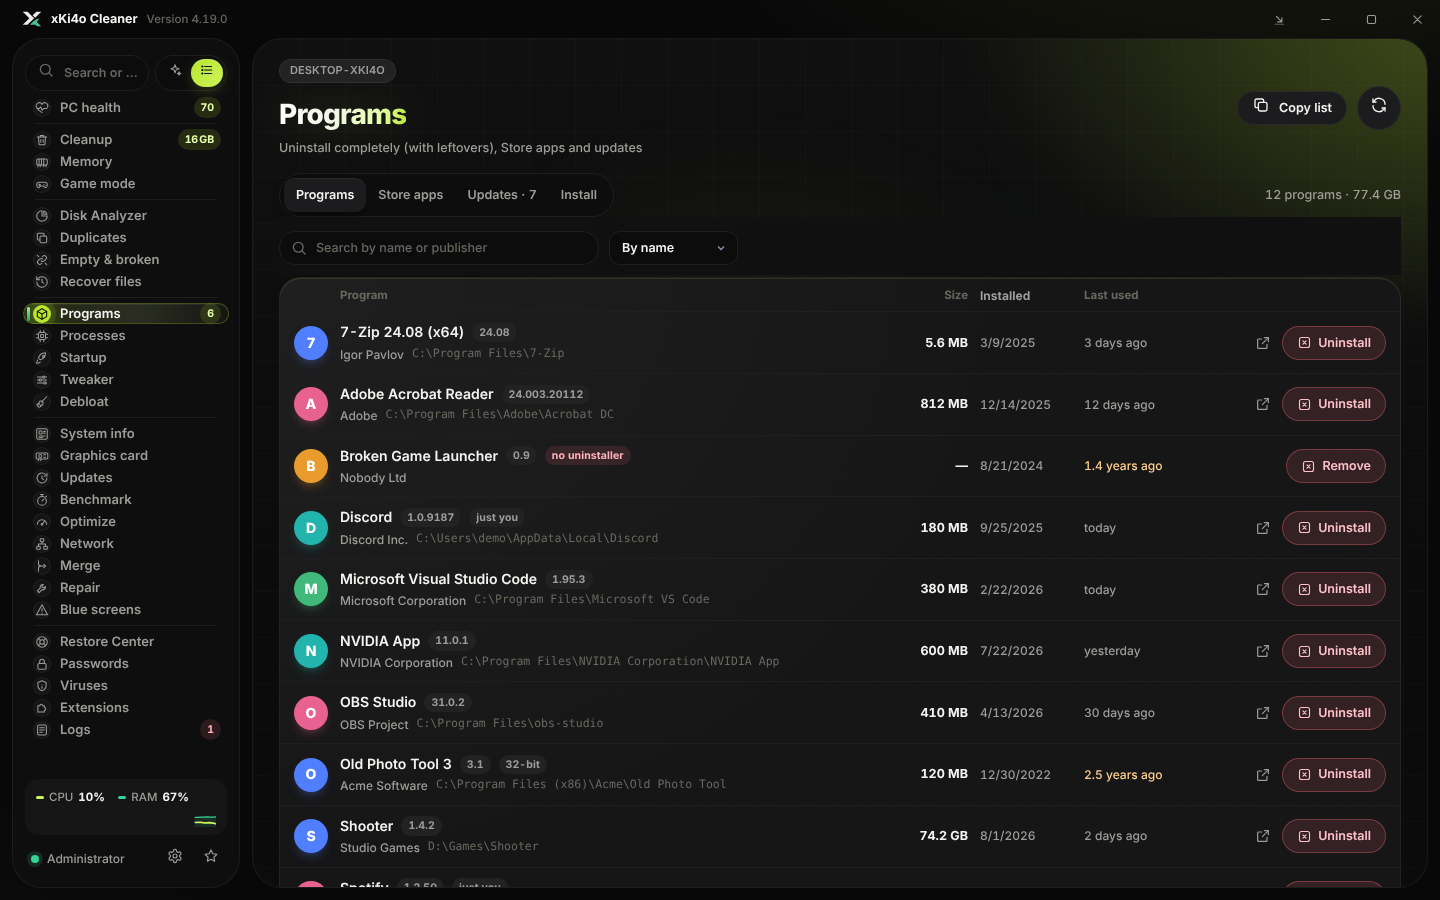
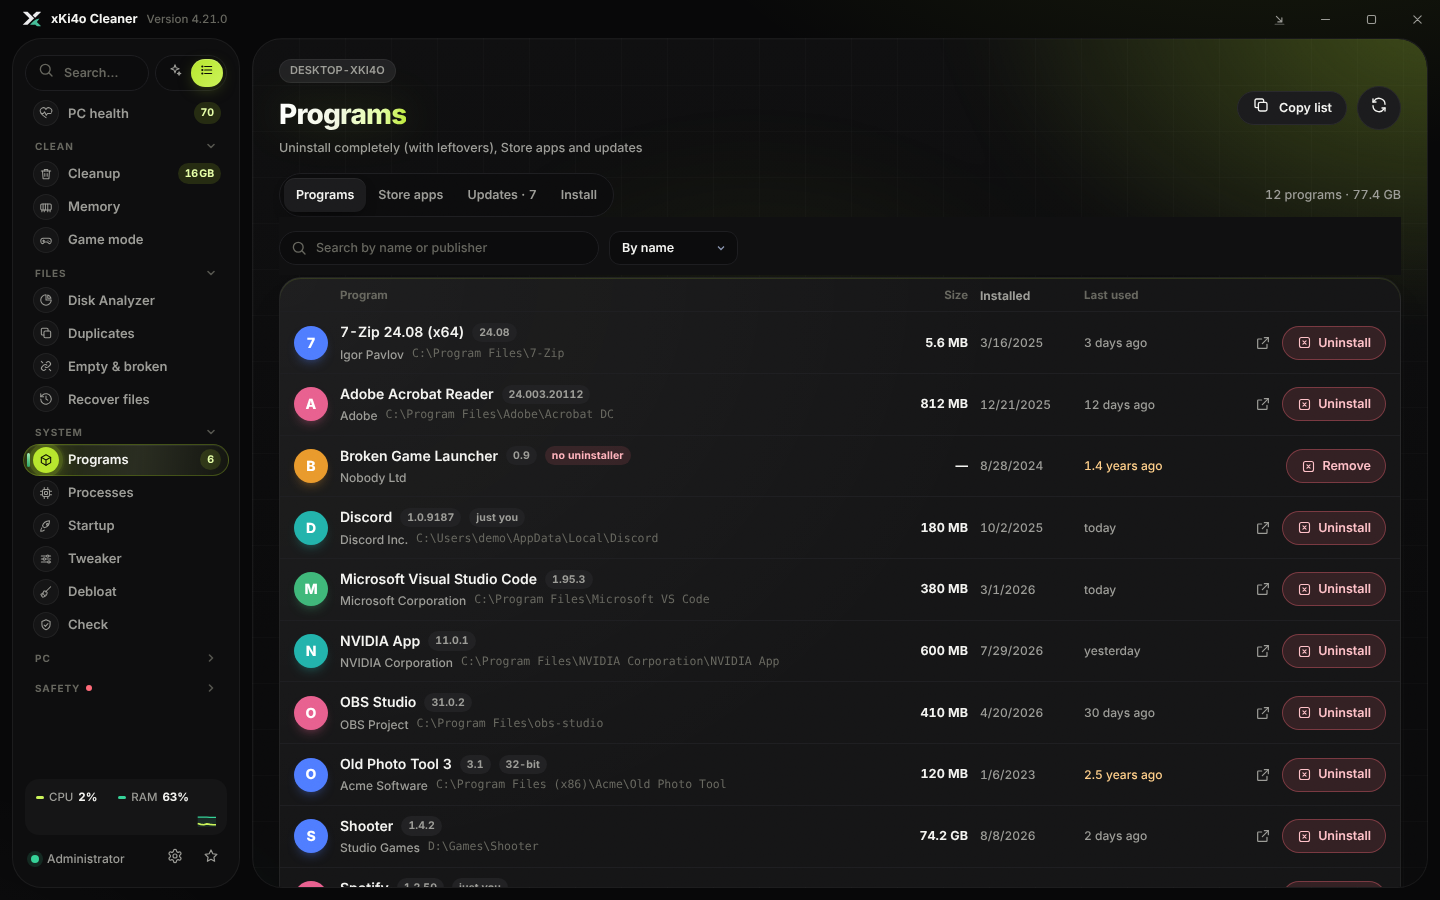
README: the Check page, new counts, new screenshots
Claude-Session: https://claude.ai/code/session_01KRJjKZZz8VxBCLNMfzXSPE

diff --git a/README.md b/README.md
@@ -6,7 +6,7 @@
 
 **The all-in-one Windows 10 / 11 cleaner, optimizer and tweaker — one portable exe, no telemetry, in English and Bulgarian.**
 
-Clean junk safely, apply 90 reversible tweaks, boost games, update Windows and drivers, check your disks, GPU and network — and undo anything in one click.
+Clean junk safely, apply 100 reversible tweaks, check that nothing broke, boost games, update Windows and drivers, check your disks, GPU and network — and undo anything in one click.
 
 [![Release](https://img.shields.io/github/v/release/Ki4o112/xKi4o-Cleaner?label=version&color=2a9dff)](../../releases/latest)
 [![Downloads](https://img.shields.io/github/downloads/Ki4o112/xKi4o-Cleaner/total?color=3ee8b0)](../../releases)
@@ -36,9 +36,10 @@ Needs Windows 10 or 11 (64-bit) and the WebView2 Runtime, which Windows 11 alrea
 | **PC health** | A live dashboard — processor, graphics card (temperature and video memory on NVIDIA), memory, system drive and network — with one score, what lowers it, and one button for what is recommended |
 | **Cleanup** | Caches and temporary files of Windows, browsers, games and apps — the size of each before you clean |
 | **Programs** | Uninstall with a scan for leftovers (like Revo), remove Store apps, update programs with winget, and install the programs you pick in one go (like Ninite) |
-| **Debloat** | Everything [Win11Debloat](https://github.com/Raphire/Win11Debloat) by Raphire does, built in: 97 changes (telemetry, ads, Bing and Copilot, Recall, widgets, the taskbar, Start, File Explorer, Windows Update…) and 162 Store and maker apps to remove, with its recommended choice, presets and taking back |
+| **Debloat** | Everything [Win11Debloat](https://github.com/Raphire/Win11Debloat) by Raphire does, built in: 97 changes plus 12 of the app's own (telemetry, ads, Bing and Copilot, Recall, widgets, the taskbar, Start, File Explorer, Windows Update…) and 162 Store and maker apps to remove, with its recommended choice, presets and taking back |
+| **Check** | Are the tweaks and Debloat working? What Windows changed back, the services Windows needs, crashes, freezes and blue screens that began after the changes (with the likely change and Undo), protection, updates, the internet — checked by itself once a day |
 | **Modes** | Balanced, Games or Saver in one click on PC health — the power plan, Windows' background work and game mode together |
-| **Tweaker** | About 90 Windows tweaks and one-click presets (Essential, Gaming, Privacy, Ultimate); switching one off brings back exactly what you had |
+| **Tweaker** | About 100 Windows tweaks and one-click presets (Essential, Gaming, Privacy, Ultimate); switching one off brings back exactly what you had |
 | **Memory and game mode** | Free RAM; close the programs you choose while you play and start them again after — by hand or by itself when any game starts, with memory freed as the game starts and after it closes; a frame counter (FPS, 1% low, frame time) with a small box above the game, through Intel's [PresentMon](https://github.com/GameTechDev/PresentMon) — downloaded on request, nothing is injected into the game |
 | **Disks** | Disk Analyzer (with "What can I delete?"), disk health (S.M.A.R.T., what the errors mean and what helps), TRIM and defragmentation, duplicates, empty folders, broken shortcuts |
 | **Graphics card** | Live sensors (temperature, power, fans, clocks on NVIDIA), checks (refresh rate, PCIe lanes, Resizable BAR, HAGS), go back to an older driver or download one from NVIDIA, and remove the driver like DDU — with a copy to put it back |
@@ -65,6 +66,7 @@ Needs Windows 10 or 11 (64-bit) and the WebView2 Runtime, which Windows 11 alrea
 <img src="docs/screenshots/programs.png" width="430" alt="Programs">
 <img src="docs/screenshots/debloat.png" width="430" alt="Debloat">
 <img src="docs/screenshots/tweaker.png" width="430" alt="Tweaker">
+<img src="docs/screenshots/check.png" width="430" alt="Check the changes">
 <img src="docs/screenshots/disk.png" width="430" alt="Disk Analyzer">
 <img src="docs/screenshots/sysinfo.png" width="430" alt="System info">
 <img src="docs/screenshots/gpu.png" width="430" alt="Graphics card">
